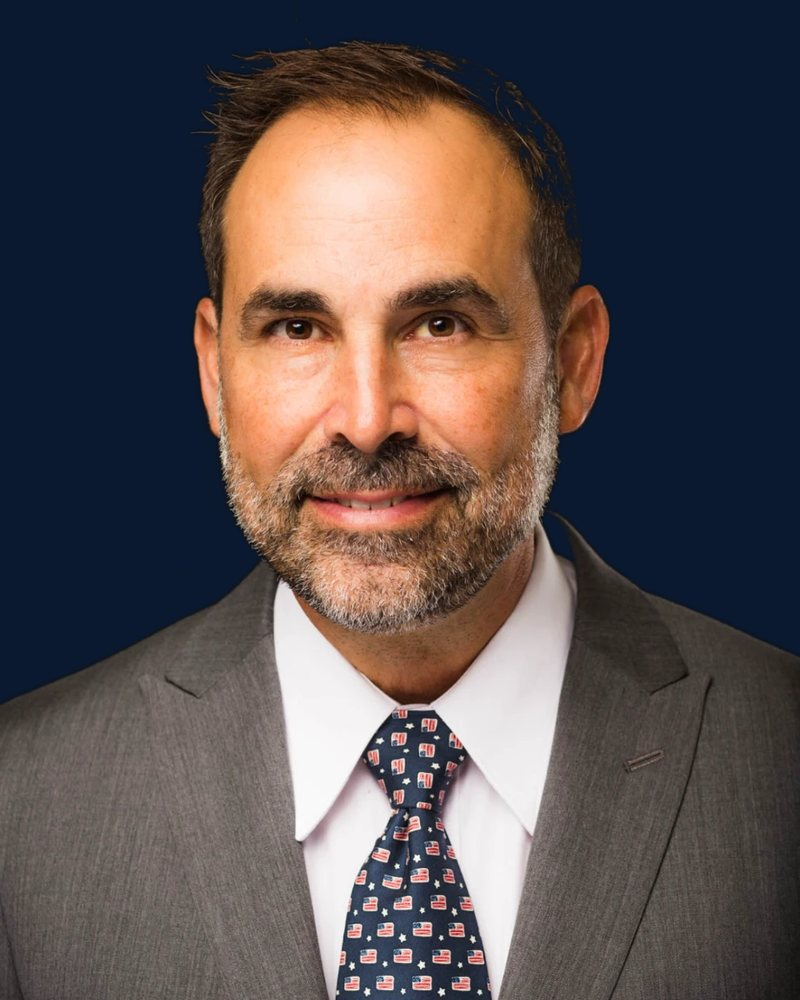
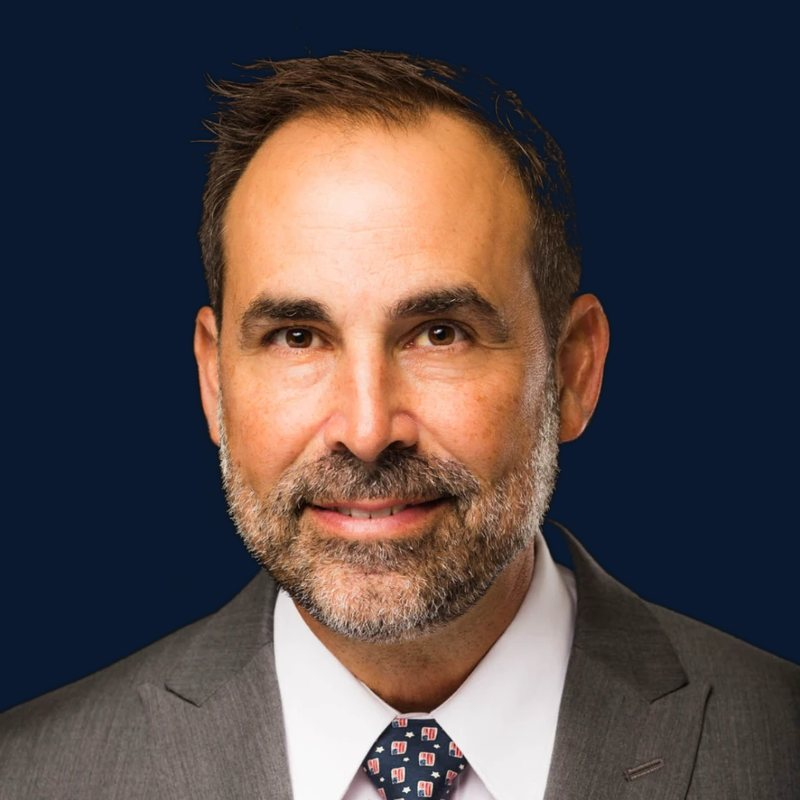
Fix headshot crop, spell out company name, mention AI
- Use a square head-and-shoulders crop with only a bottom fade, so the
  photo no longer looks narrow on desktop
- Shorten the top section so the services list shows on load on
  common laptop screens
- Spell out "Guardian Edge Forensics" wherever the name appears
- Mention the firm's use of AI technology in the intro and services

diff --git a/index.html b/index.html
@@ -9,7 +9,7 @@
 
   <!-- Social sharing previews. Once the custom domain is live, change these URLs to it. -->
   <meta property="og:type" content="website">
-  <meta property="og:site_name" content="GE Forensics">
+  <meta property="og:site_name" content="Guardian Edge Forensics">
   <meta property="og:title" content="Guardian Edge Forensics | Michael Galdys, MBA, CFE">
   <meta property="og:description" content="Financial investigations, asset tracing, and litigation support for divorce, fraud, and tax matters.">
   <meta property="og:url" content="https://andrewgaldys.github.io/geforensics/">
@@ -55,7 +55,7 @@
   <header class="site-header" id="top">
     <div class="container header-inner">
       <a class="brand" href="#top">
-        <img src="assets/img/logo.png" width="58" height="58" alt="GE Forensics, back to top">
+        <img src="assets/img/logo.png" width="54" height="54" alt="Guardian Edge Forensics, back to top">
       </a>
 
       <a class="header-call" href="tel:+17724858604" aria-label="Call (772) 485-8604">
@@ -87,8 +87,9 @@
         <div class="hero-copy">
           <h1 id="hero-title">Financial investigations and litigation support</h1>
           <p class="lead">
-            GE Forensics traces assets and analyzes financial records for attorneys and their clients
-            in divorce, fraud, and tax matters.
+            Guardian Edge Forensics traces assets and analyzes financial records for attorneys and their
+            clients in divorce, fraud, and tax matters. The firm uses AI technology to make that work
+            faster and more accurate.
           </p>
           <p class="hero-founder">
             Founded by Michael Galdys, MBA, CFE, a former Supervisory Special Agent with
@@ -100,19 +101,15 @@
           </div>
         </div>
         <div class="hero-photo">
-          <img src="assets/img/michael-galdys.jpg" width="800" height="1000" alt="Michael Galdys" fetchpriority="high">
+          <img src="assets/img/michael-galdys.jpg" width="800" height="800" alt="Michael Galdys" fetchpriority="high">
         </div>
       </div>
     </section>
 
-    <section class="section" id="services" aria-labelledby="services-title">
+    <section class="section section-services" id="services" aria-labelledby="services-title">
       <div class="container">
         <div class="section-head">
           <h2 id="services-title">Services</h2>
-          <p>
-            These are the kinds of assignments GE Forensics takes on. If your matter turns on financial
-            records and you're not sure it fits, call and ask.
-          </p>
         </div>
 
         <div class="service-groups">
@@ -146,10 +143,15 @@
           </div>
         </div>
 
-        <p class="section-note">
-          Findings are written up in plain language, and every figure in a schedule or chart is tied
-          back to the document it came from.
-        </p>
+        <div class="section-note">
+          <p>
+            Guardian Edge Forensics uses AI technology to organize and cross-check large volumes of bank,
+            brokerage, and business records. That speeds up the review and helps catch transactions that
+            are easy to miss by hand. Michael checks every finding against the source documents, and each
+            figure in a schedule or chart is tied back to the record it came from.
+          </p>
+          <p>If your matter turns on financial records and you're not sure it fits, call and ask.</p>
+        </div>
       </div>
     </section>
 
@@ -164,8 +166,8 @@
             oversaw agents working those cases.
           </p>
           <p>
-            He founded GE Forensics to bring that experience to civil and private matters, working with
-            attorneys, business owners, and individuals.
+            He founded Guardian Edge Forensics to bring that experience to civil and private matters,
+            working with attorneys, business owners, and individuals.
           </p>
           <p>Michael holds an MBA and is a Certified Fraud Examiner (CFE).</p>
           <a class="text-link" href="https://www.linkedin.com/in/michael-galdys/" target="_blank" rel="noopener">
@@ -221,7 +223,7 @@
   <footer class="site-footer">
     <div class="container footer-inner">
       <div class="footer-brand">
-        <img src="assets/img/logo.png" width="72" height="72" alt="GE Forensics">
+        <img src="assets/img/logo.png" width="72" height="72" alt="Guardian Edge Forensics">
         <p>
           <strong>Guardian Edge Forensics</strong><br>
           Financial Investigations&nbsp;&middot; Asset Tracing&nbsp;&middot; Litigation Support

diff --git a/assets/css/styles.css b/assets/css/styles.css
@@ -20,7 +20,7 @@
   --radius: 10px;
   --radius-sm: 6px;
   --container: 1160px;
-  --header-h: 80px;
+  --header-h: 72px;
 }
 
 /* ---------- Base ---------- */
@@ -244,8 +244,8 @@ a {
 }
 
 .brand img {
-  width: 58px;
-  height: 58px;
+  width: 54px;
+  height: 54px;
 }
 
 .site-nav {
@@ -404,28 +404,27 @@ a {
 }
 
 .hero-copy {
-  padding: clamp(56px, 8vw, 96px) 0 40px;
+  padding: clamp(40px, 7vw, 56px) 0 32px;
 }
 
 .hero h1 {
-  max-width: 15ch;
   color: var(--white);
-  font-size: clamp(2.3rem, 3.4vw + 1rem, 3.5rem);
-  line-height: 1.08;
+  font-size: clamp(2.2rem, 2vw + 1.4rem, 2.9rem);
+  line-height: 1.1;
   letter-spacing: -0.015em;
 }
 
 .lead {
-  max-width: 32em;
-  margin: 26px 0 0;
+  max-width: 36em;
+  margin: 18px 0 0;
   color: var(--steel-soft);
-  font-size: clamp(1.1rem, 0.4vw + 1rem, 1.25rem);
-  line-height: 1.65;
+  font-size: clamp(1.08rem, 0.3vw + 1rem, 1.18rem);
+  line-height: 1.6;
 }
 
 .hero-founder {
-  max-width: 34em;
-  margin: 14px 0 0;
+  max-width: 40em;
+  margin: 10px 0 0;
   color: var(--steel);
 }
 
@@ -433,25 +432,28 @@ a {
   display: flex;
   flex-wrap: wrap;
   gap: 14px;
-  margin-top: 36px;
+  margin-top: 26px;
 }
 
-/* The photo's backdrop is the same navy as the hero; fade its edges so it sits in the section. */
+/* The photo's backdrop is the same navy as the hero, so only its bottom edge fades out
+   (plus a hairline fade on the other edges to hide any compression seam). */
 .hero-photo {
   justify-self: center;
-  width: min(100%, 340px);
+  width: min(100%, 300px);
 }
 
 .hero-photo img {
   width: 100%;
   height: auto;
+  aspect-ratio: 1 / 1;
+  object-fit: cover;
   -webkit-mask-image:
-    linear-gradient(to bottom, transparent 0, #000 4%, #000 70%, transparent 100%),
-    linear-gradient(to right, transparent 0, #000 10%, #000 90%, transparent 100%);
+    linear-gradient(to bottom, transparent 0, #000 3%, #000 76%, transparent 100%),
+    linear-gradient(to right, transparent 0, #000 3%, #000 97%, transparent 100%);
   -webkit-mask-composite: source-in;
   mask-image:
-    linear-gradient(to bottom, transparent 0, #000 4%, #000 70%, transparent 100%),
-    linear-gradient(to right, transparent 0, #000 10%, #000 90%, transparent 100%);
+    linear-gradient(to bottom, transparent 0, #000 3%, #000 76%, transparent 100%),
+    linear-gradient(to right, transparent 0, #000 3%, #000 97%, transparent 100%);
   mask-composite: intersect;
 }
 
@@ -463,20 +465,20 @@ a {
 
 @media (min-width: 900px) {
   .hero-inner {
-    grid-template-columns: minmax(0, 1.15fr) minmax(0, 0.85fr);
+    grid-template-columns: minmax(0, 1.2fr) minmax(0, 0.8fr);
     gap: 48px;
     align-items: end;
   }
 
   .hero-copy {
     align-self: center;
-    padding: 96px 0;
+    padding: 44px 0;
   }
 
   .hero-photo {
     justify-self: end;
-    width: min(100%, 440px);
-    margin-top: 40px;
+    width: min(100%, 390px);
+    margin-top: 28px;
   }
 }
 
@@ -507,6 +509,15 @@ a {
 }
 
 /* ---------- Services ---------- */
+
+/* Tighter top spacing so the first service group shows on load on most laptop screens. */
+.section-services {
+  padding-top: clamp(36px, 3.4vw, 44px);
+}
+
+.section-services .section-head {
+  margin-bottom: 18px;
+}
 
 .service-groups {
   display: grid;
@@ -550,11 +561,19 @@ a {
 }
 
 .section-note {
-  max-width: 62ch;
-  margin: 48px 0 0;
+  max-width: 74ch;
+  margin-top: 44px;
   padding-top: 24px;
   border-top: 1px solid var(--line);
+}
+
+.section-note p {
+  margin: 0 0 10px;
   color: var(--muted);
+}
+
+.section-note p:first-child {
+  color: var(--text);
 }
 
 /* ---------- About ---------- */

diff --git a/404.html b/404.html
@@ -42,7 +42,7 @@
 </head>
 <body>
   <main>
-    <img id="logo" src="" alt="GE Forensics" hidden>
+    <img id="logo" src="" alt="Guardian Edge Forensics" hidden>
     <p class="code">Error 404</p>
     <h1>We couldn't find that page</h1>
     <p>The page may have moved. Head back to the homepage or call (772) 485-8604.</p>
